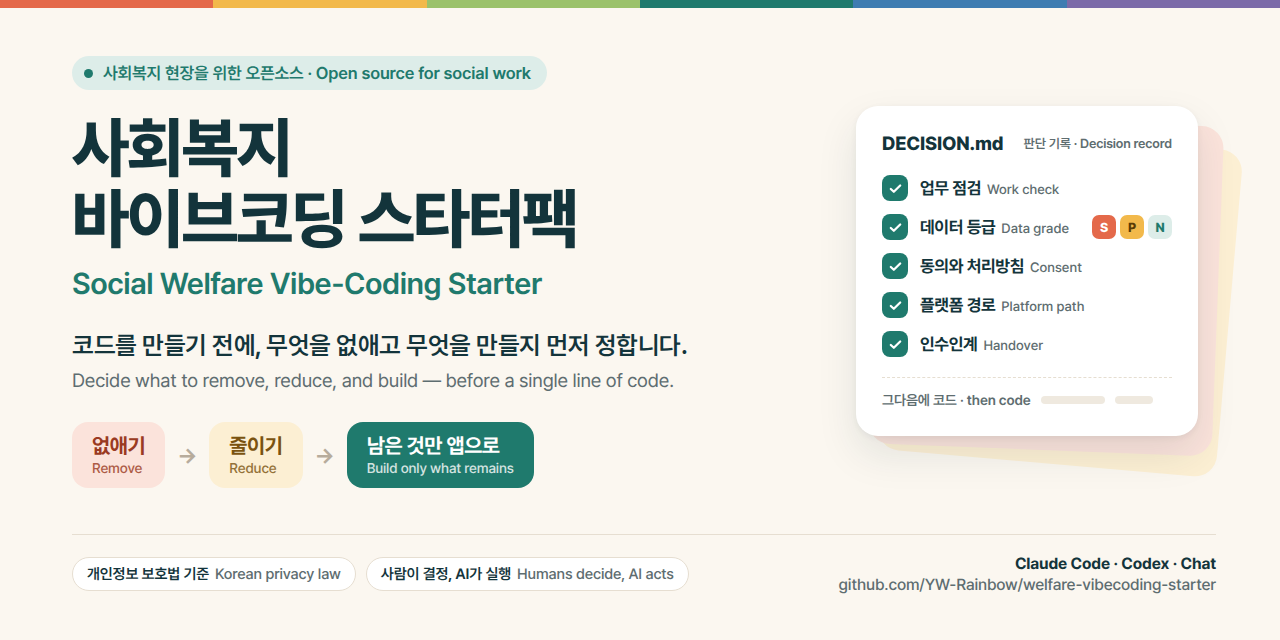
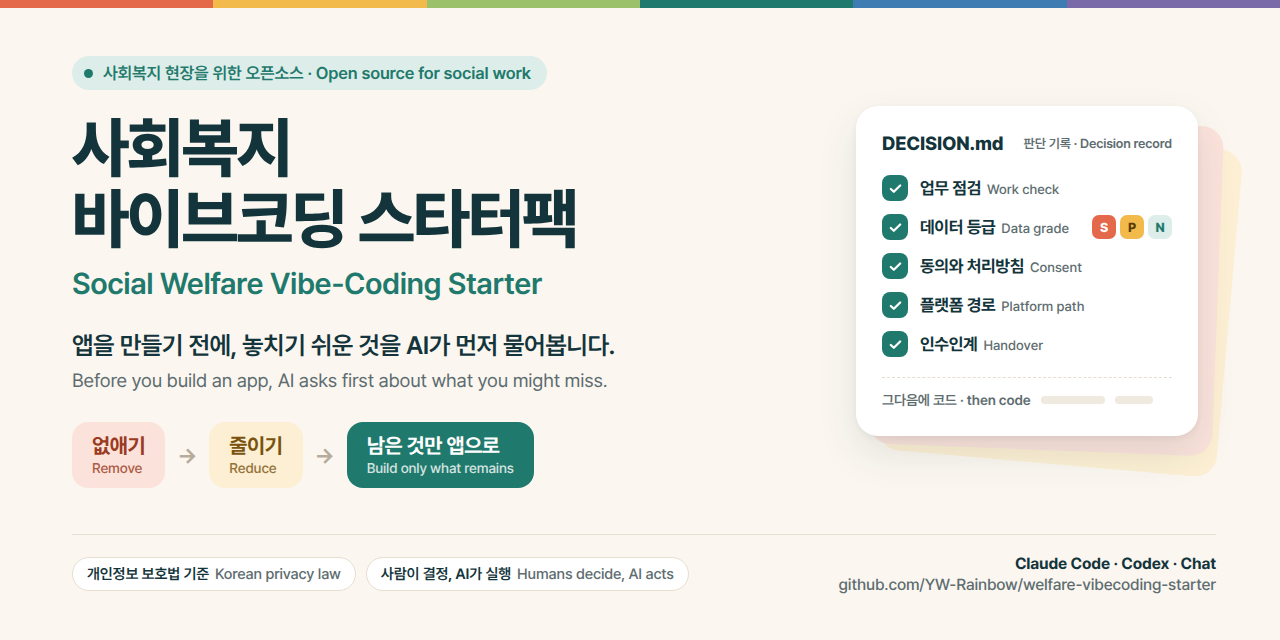
docs(readme): new tagline "놓치기 쉬운 것을 AI가 먼저 물어봅니다"
The header image, its alt text and the README intro now describe what
the starter does as a whole: before you build an app, AI asks first
about what you might miss. The old tagline covered only the work check.
The English line drops the dash and the focus on code. Only the tagline
band was redrawn, with font hinting off to match the original render.

Claude-Session: https://claude.ai/code/session_018WPmK5JNXkmq8p6EHG9fNL

Changed region(s): [[0.0625, 0.5, 0.5312, 0.625]]

diff --git a/.github/welfare-vibecoding-starter.html b/.github/welfare-vibecoding-starter.html
@@ -138,8 +138,8 @@
     <h1>사회복지<br>바이브코딩 스타터팩</h1>
     <div class="en-title">Social Welfare Vibe-Coding Starter</div>
 
-    <div class="tag-ko">코드를 만들기 전에, 무엇을 없애고 무엇을 만들지 먼저 정합니다.</div>
-    <div class="tag-en">Decide what to remove, reduce, and build — before a single line of code.</div>
+    <div class="tag-ko">앱을 만들기 전에, 놓치기 쉬운 것을 AI가 먼저 물어봅니다.</div>
+    <div class="tag-en">Before you build an app, AI asks first about what you might miss.</div>
 
     <div class="flow">
       <div class="step s1"><b>없애기</b><span>Remove</span></div>

diff --git a/README.md b/README.md
@@ -1,8 +1,8 @@
-![사회복지 바이브코딩 스타터팩: 코드를 만들기 전에, 무엇을 없애고 무엇을 만들지 먼저 정합니다](.github/welfare-vibecoding-starter.png)
+![사회복지 바이브코딩 스타터팩: 앱을 만들기 전에, 놓치기 쉬운 것을 AI가 먼저 물어봅니다](.github/welfare-vibecoding-starter.png)
 
 # 사회복지 바이브코딩 스타터팩
 
-> 코드 템플릿이 아니라, 코드를 만들기 전에 필요한 정보와 판단 근거를 정리한 문서 모음입니다.
+> 코드 템플릿이 아니라, 앱을 만들기 전에 필요한 정보와 판단 근거를 정리한 문서 모음입니다.
 > 템플릿으로 복사하거나 플러그인으로 설치해 AI와 대화하면, 놓치기 쉬운 것을 AI가 먼저 물어보고 무엇을 어디에 어떻게 만들지 함께 정리합니다.
 
 ## 최근 바뀐 것
